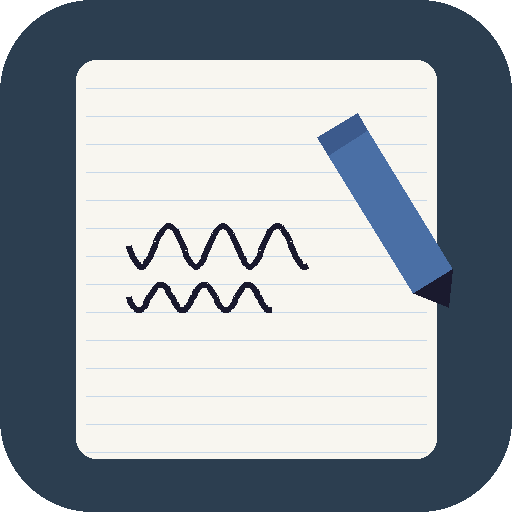
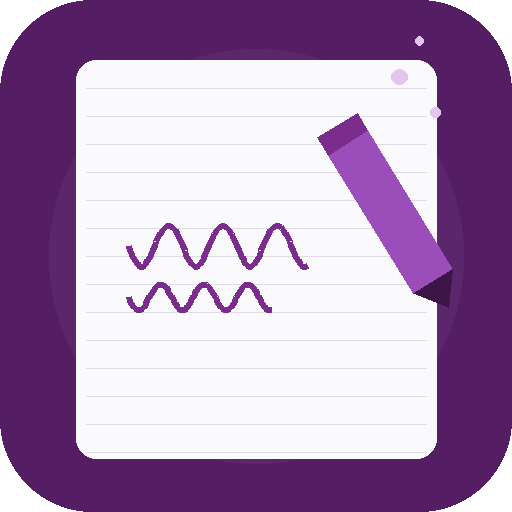
style: rebrand to Graphe with purple accent theme
- App name changed to Graphe (from Greek graphein - to write)
- Purple accent colors (#7b2d8e) with light grey/white background
- Updated quote banner, sidebar, buttons, active states
- Regenerated PWA icons with purple branding
- Updated manifest and HTML meta tags

https://claude.ai/code/session_01VshQ2mLVaXp6vHBCKBUWmQ

diff --git a/css/style.css b/css/style.css
@@ -6,21 +6,22 @@
 }
 
 :root {
-    --bg-page: #f8f6f0;
-    --grid-color: #c8d8e8;
+    --bg-page: #f5f4f7;
+    --grid-color: #e0dce6;
     --grid-size: 28px;
     --sidebar-width: 280px;
     --top-bar-height: 56px;
     --quote-height: 64px;
     --ink-color: #1a1a2e;
-    --accent: #4a6fa5;
-    --accent-light: #6b8fc4;
+    --accent: #7b2d8e;
+    --accent-light: #9b4dba;
+    --accent-subtle: #f3eaf6;
     --danger: #cc0000;
-    --text-primary: #2c3e50;
-    --text-secondary: #7f8c8d;
-    --surface: #ffffff;
-    --shadow-sm: 0 1px 3px rgba(0,0,0,0.08);
-    --shadow-md: 0 4px 12px rgba(0,0,0,0.12);
+    --text-primary: #2c2637;
+    --text-secondary: #8a8494;
+    --surface: #faf9fc;
+    --shadow-sm: 0 1px 3px rgba(90,50,120,0.06);
+    --shadow-md: 0 4px 12px rgba(90,50,120,0.10);
     --radius: 10px;
 }
 
@@ -57,13 +58,16 @@ body {
     align-items: center;
     justify-content: space-between;
     padding: 16px 20px;
-    border-bottom: 1px solid #eee;
+    border-bottom: 1px solid #e8e0ec;
+    background: linear-gradient(135deg, var(--accent-subtle) 0%, #faf9fc 100%);
 }
 
 .sidebar-header h2 {
-    font-size: 18px;
-    font-weight: 600;
-    color: var(--text-primary);
+    font-size: 20px;
+    font-weight: 700;
+    color: var(--accent);
+    letter-spacing: 1.5px;
+    text-transform: uppercase;
 }
 
 .notes-list {
@@ -82,11 +86,11 @@ body {
 }
 
 .note-item:hover {
-    background: #f0f4f8;
+    background: var(--accent-subtle);
 }
 
 .note-item.active {
-    background: #e8f0fe;
+    background: var(--accent-subtle);
     border-left: 3px solid var(--accent);
 }
 
@@ -198,7 +202,7 @@ body {
 }
 
 .btn-icon:hover {
-    background: #f0f4f8;
+    background: var(--accent-subtle);
 }
 
 .btn-tool {
@@ -216,13 +220,13 @@ body {
 }
 
 .btn-tool:hover {
-    background: #e8f0fe;
+    background: var(--accent-subtle);
 }
 
 .btn-tool.active {
     border-color: var(--accent);
     color: var(--accent);
-    background: #e8f0fe;
+    background: var(--accent-subtle);
 }
 
 .color-picker {
@@ -278,8 +282,8 @@ body {
 /* ===== Quote Banner ===== */
 .quote-banner {
     height: var(--quote-height);
-    background: linear-gradient(135deg, #f8f4e8 0%, #f0ece0 100%);
-    border-bottom: 1px solid #e0dcd0;
+    background: linear-gradient(135deg, #f6eef8 0%, #ede4f0 100%);
+    border-bottom: 1px solid #ddd2e0;
     display: flex;
     flex-direction: column;
     justify-content: center;
@@ -292,14 +296,14 @@ body {
     font-family: 'Caveat', cursive;
     font-size: 20px;
     font-weight: 600;
-    color: #4a4035;
+    color: #4a2d55;
     text-align: center;
     line-height: 1.2;
 }
 
 .quote-author {
     font-size: 12px;
-    color: #8a7e70;
+    color: #8a7094;
     font-style: italic;
 }
 
@@ -403,7 +407,7 @@ body {
 }
 
 .btn-secondary:hover {
-    background: #f0f4f8;
+    background: var(--accent-subtle);
 }
 
 .btn-primary {

diff --git a/index.html b/index.html
@@ -5,8 +5,8 @@
     <meta name="viewport" content="width=device-width, initial-scale=1.0, user-scalable=no, viewport-fit=cover">
     <meta name="apple-mobile-web-app-capable" content="yes">
     <meta name="apple-mobile-web-app-status-bar-style" content="black-translucent">
-    <meta name="theme-color" content="#2c3e50">
-    <title>Notatnik</title>
+    <meta name="theme-color" content="#7b2d8e">
+    <title>Graphe</title>
     <link rel="manifest" href="manifest.json">
     <link rel="apple-touch-icon" href="icons/icon-192.png">
     <link rel="preconnect" href="https://fonts.googleapis.com">
@@ -18,7 +18,7 @@
     <!-- Sidebar - notes list -->
     <aside id="sidebar" class="sidebar">
         <div class="sidebar-header">
-            <h2>Moje Notatki</h2>
+            <h2>Graphe</h2>
             <button id="btn-new-note" class="btn-icon" title="Nowa notatka">
                 <svg width="24" height="24" viewBox="0 0 24 24" fill="none" stroke="currentColor" stroke-width="2">
                     <line x1="12" y1="5" x2="12" y2="19"></line>
